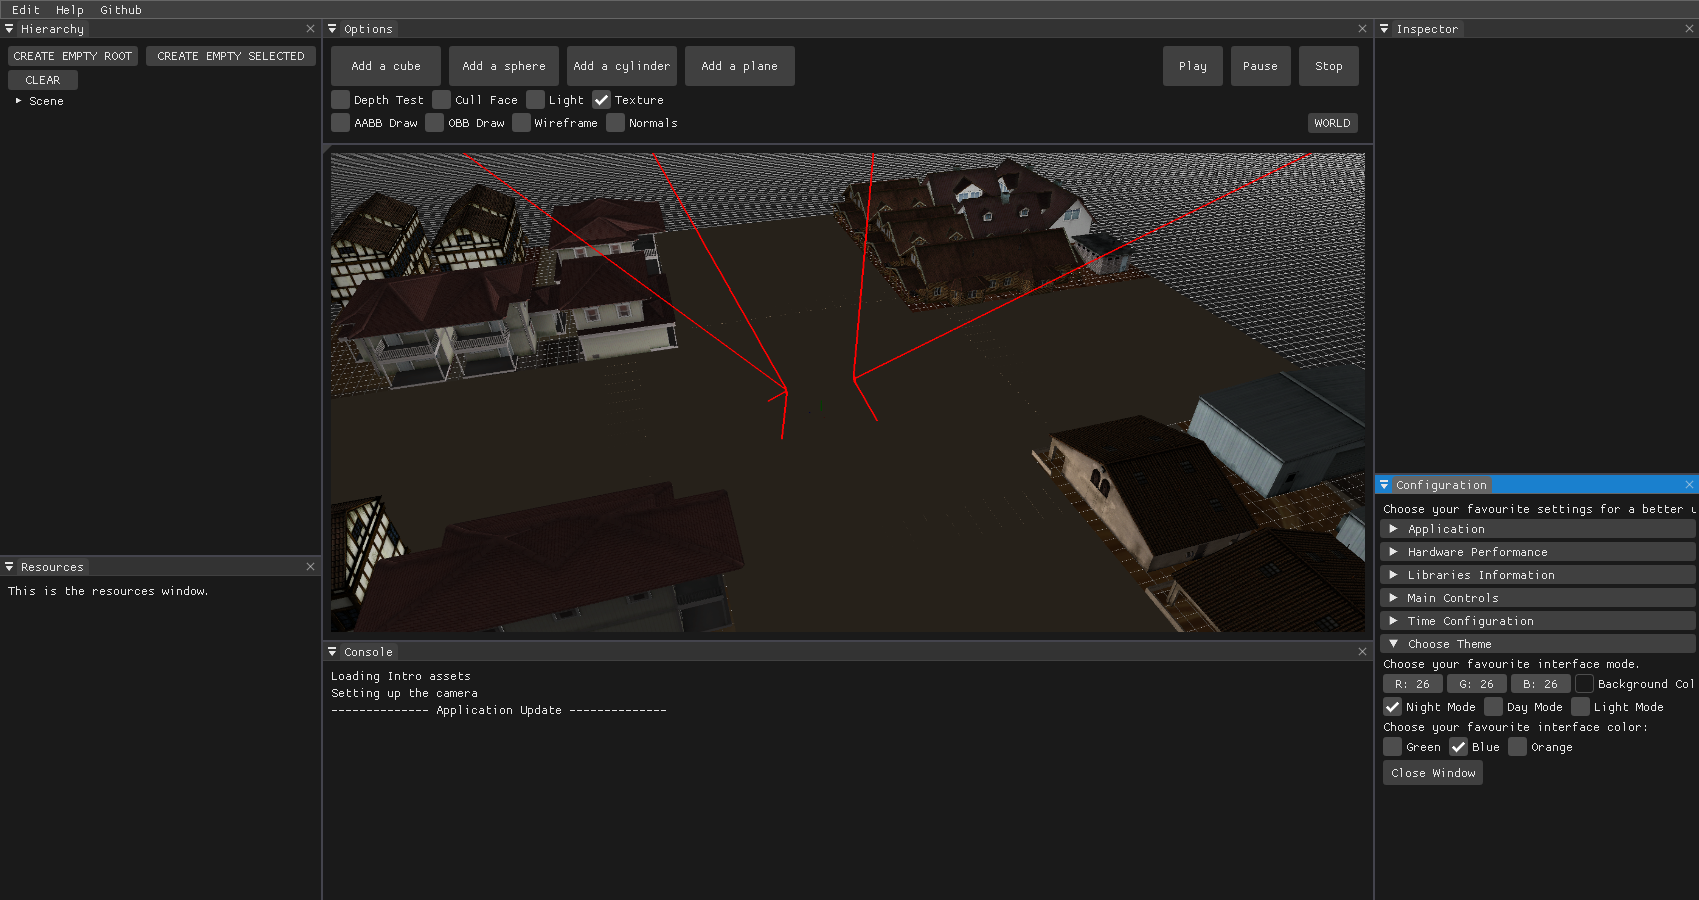
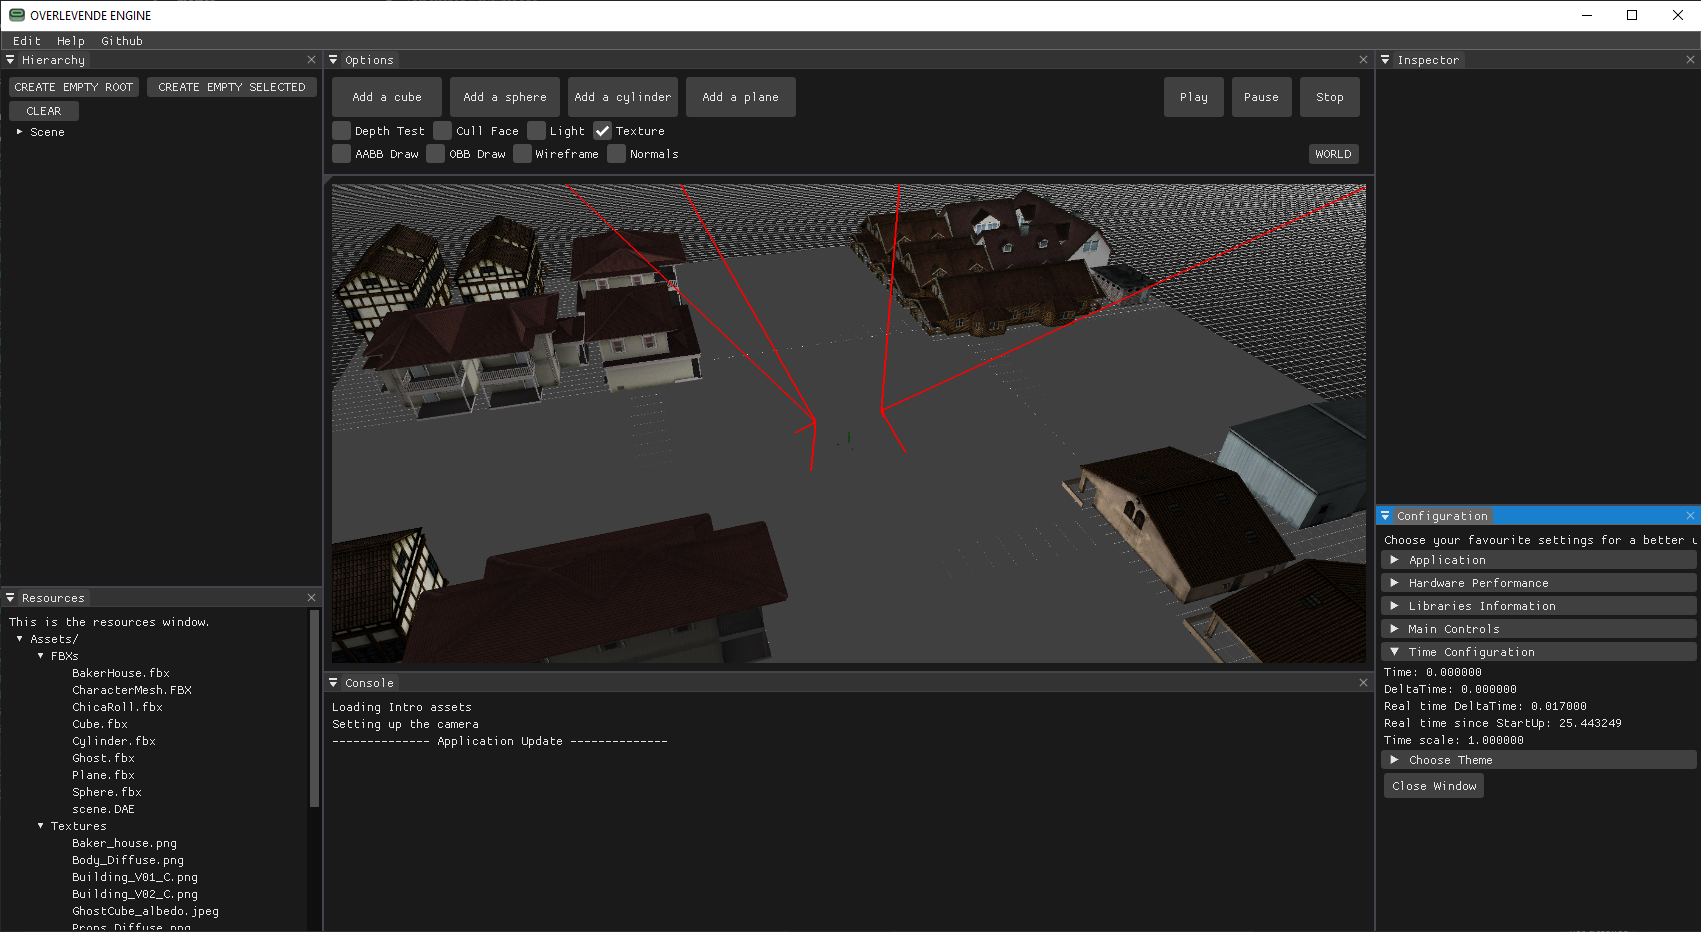
update readme with the assets window

diff --git a/README.md b/README.md
@@ -114,6 +114,9 @@ button to minimize the entire window.
 	change it or just introduce the desired value. For the camera's options note the you can change the priority, enable or disable de culling and edit some more options 
 	for the Frustum Culling feature.
 
+- Resource Windows:
+	This window will display all the resources used in the scene.
+
 ![Inspector](https://github.com/Pletenica/Overlevende/blob/master/Readme%20images/inspector.PNG?raw=true)
 
 - Console:
